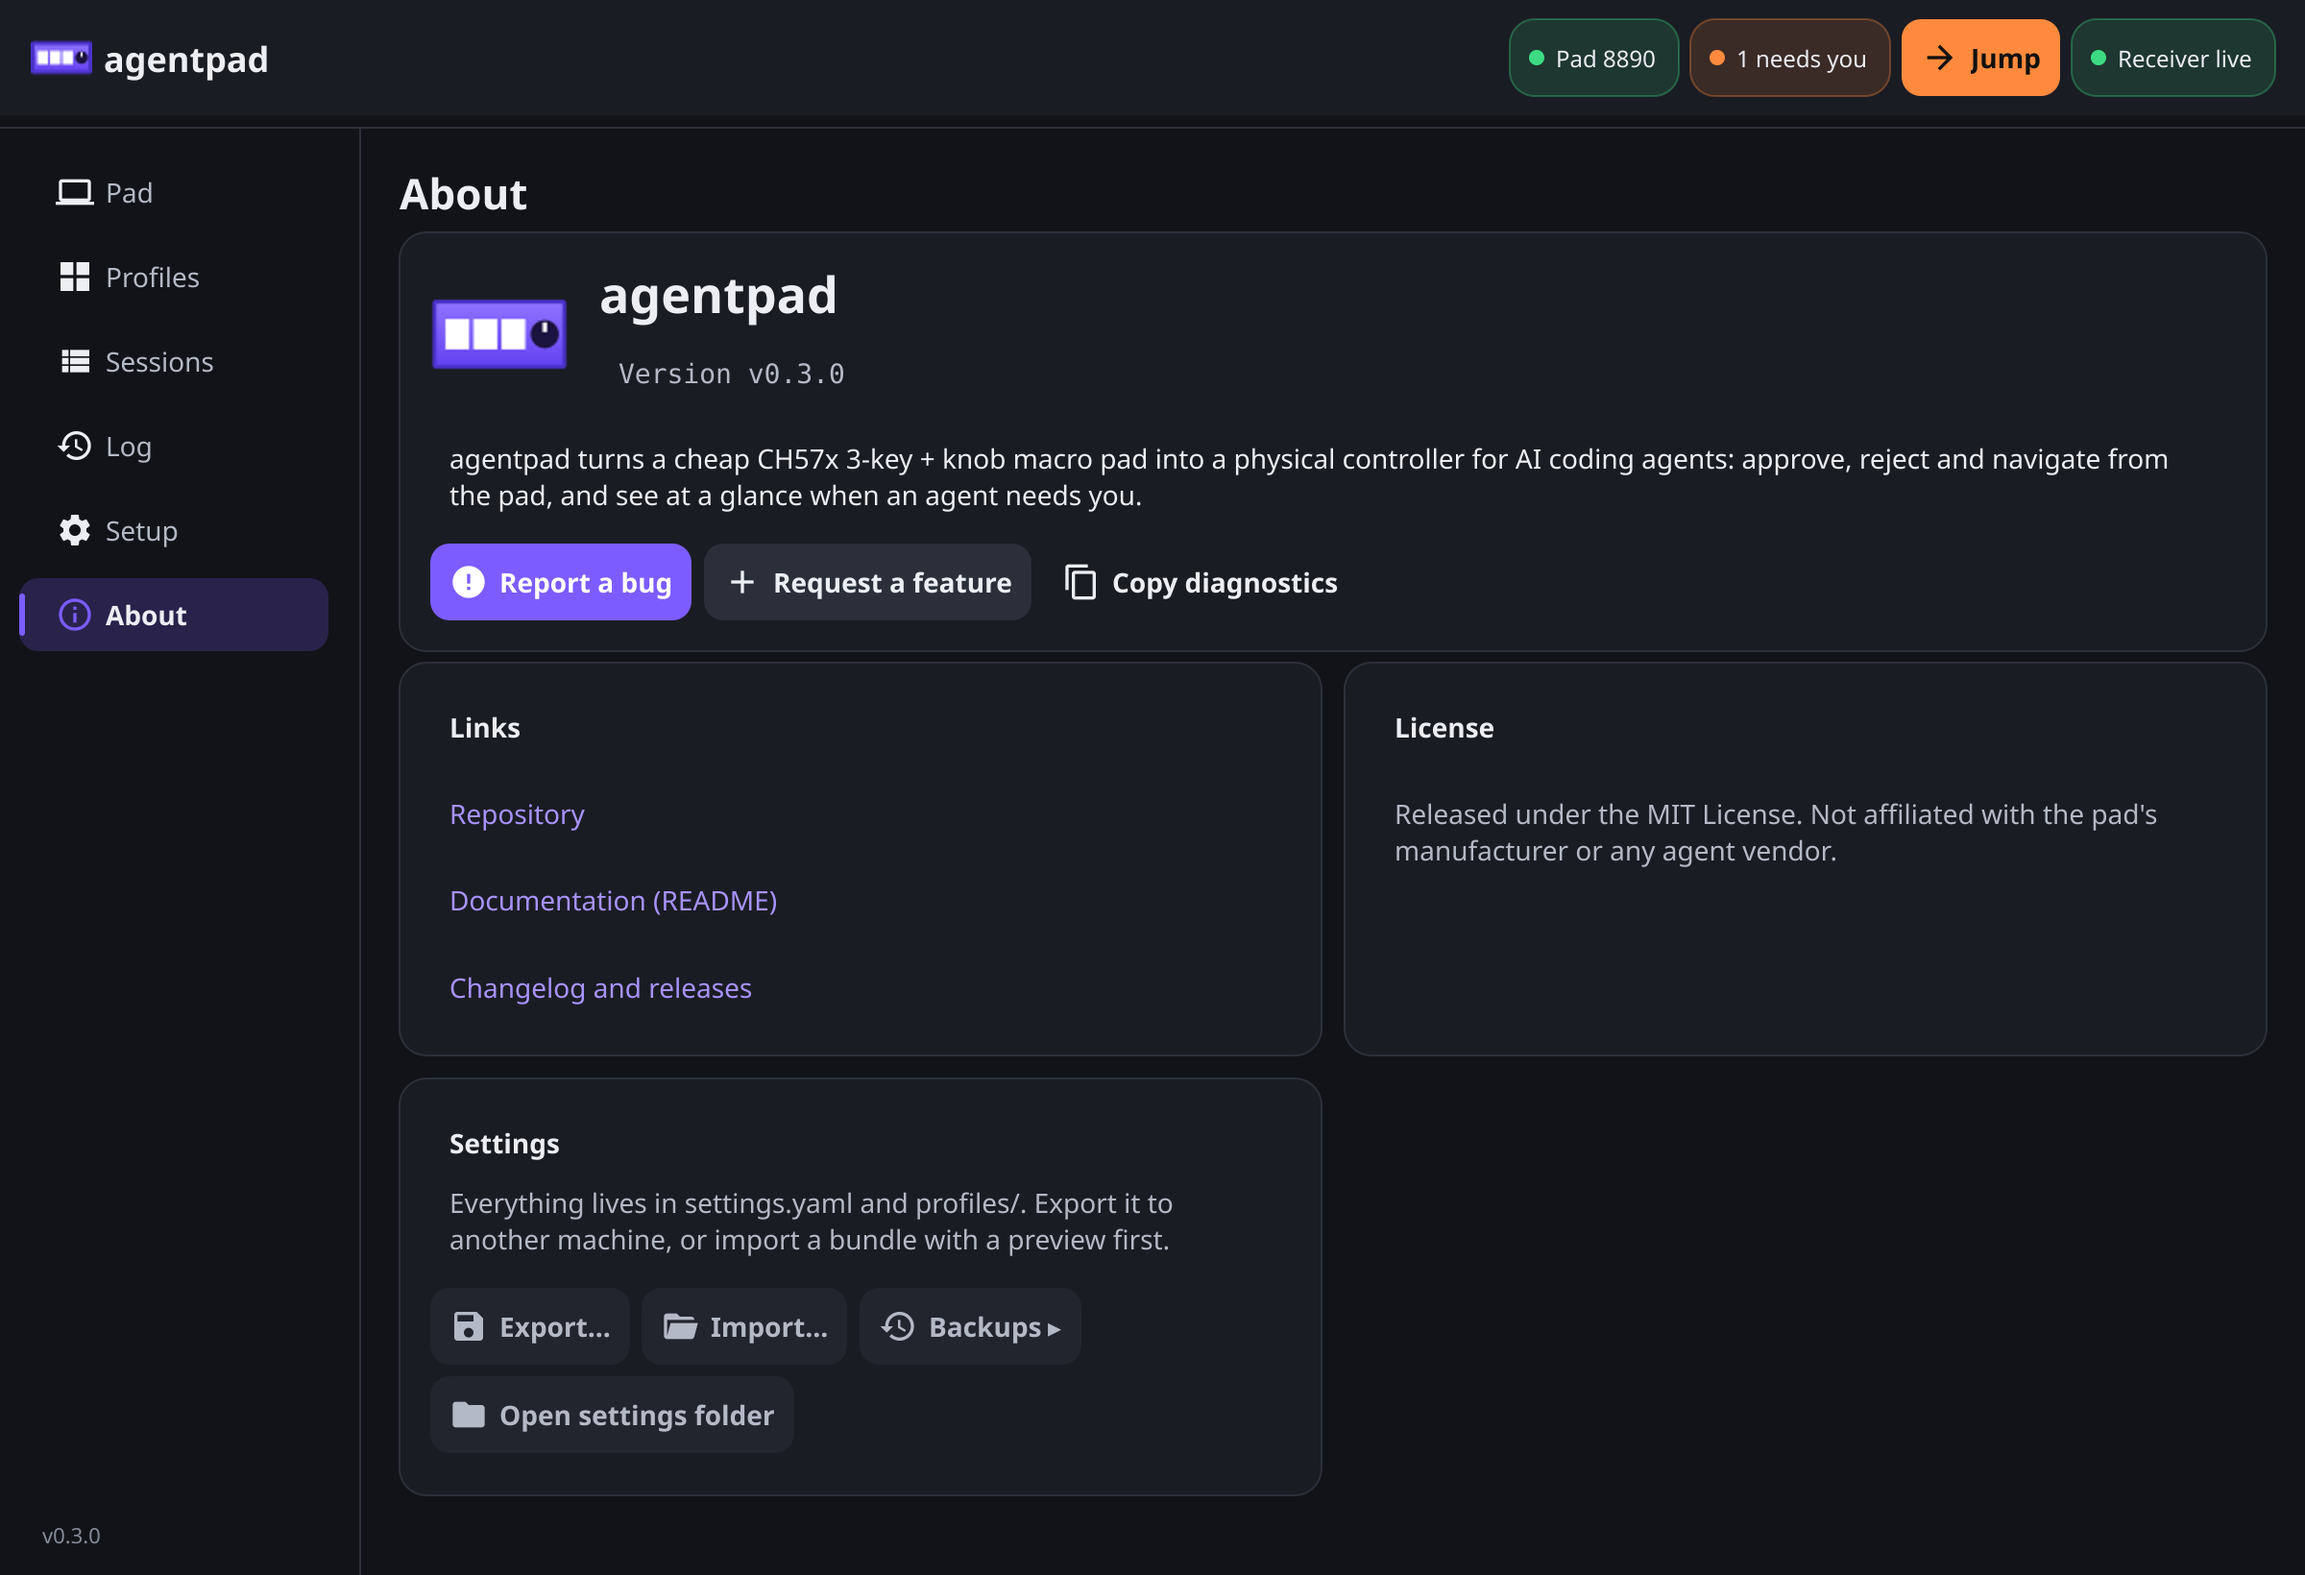
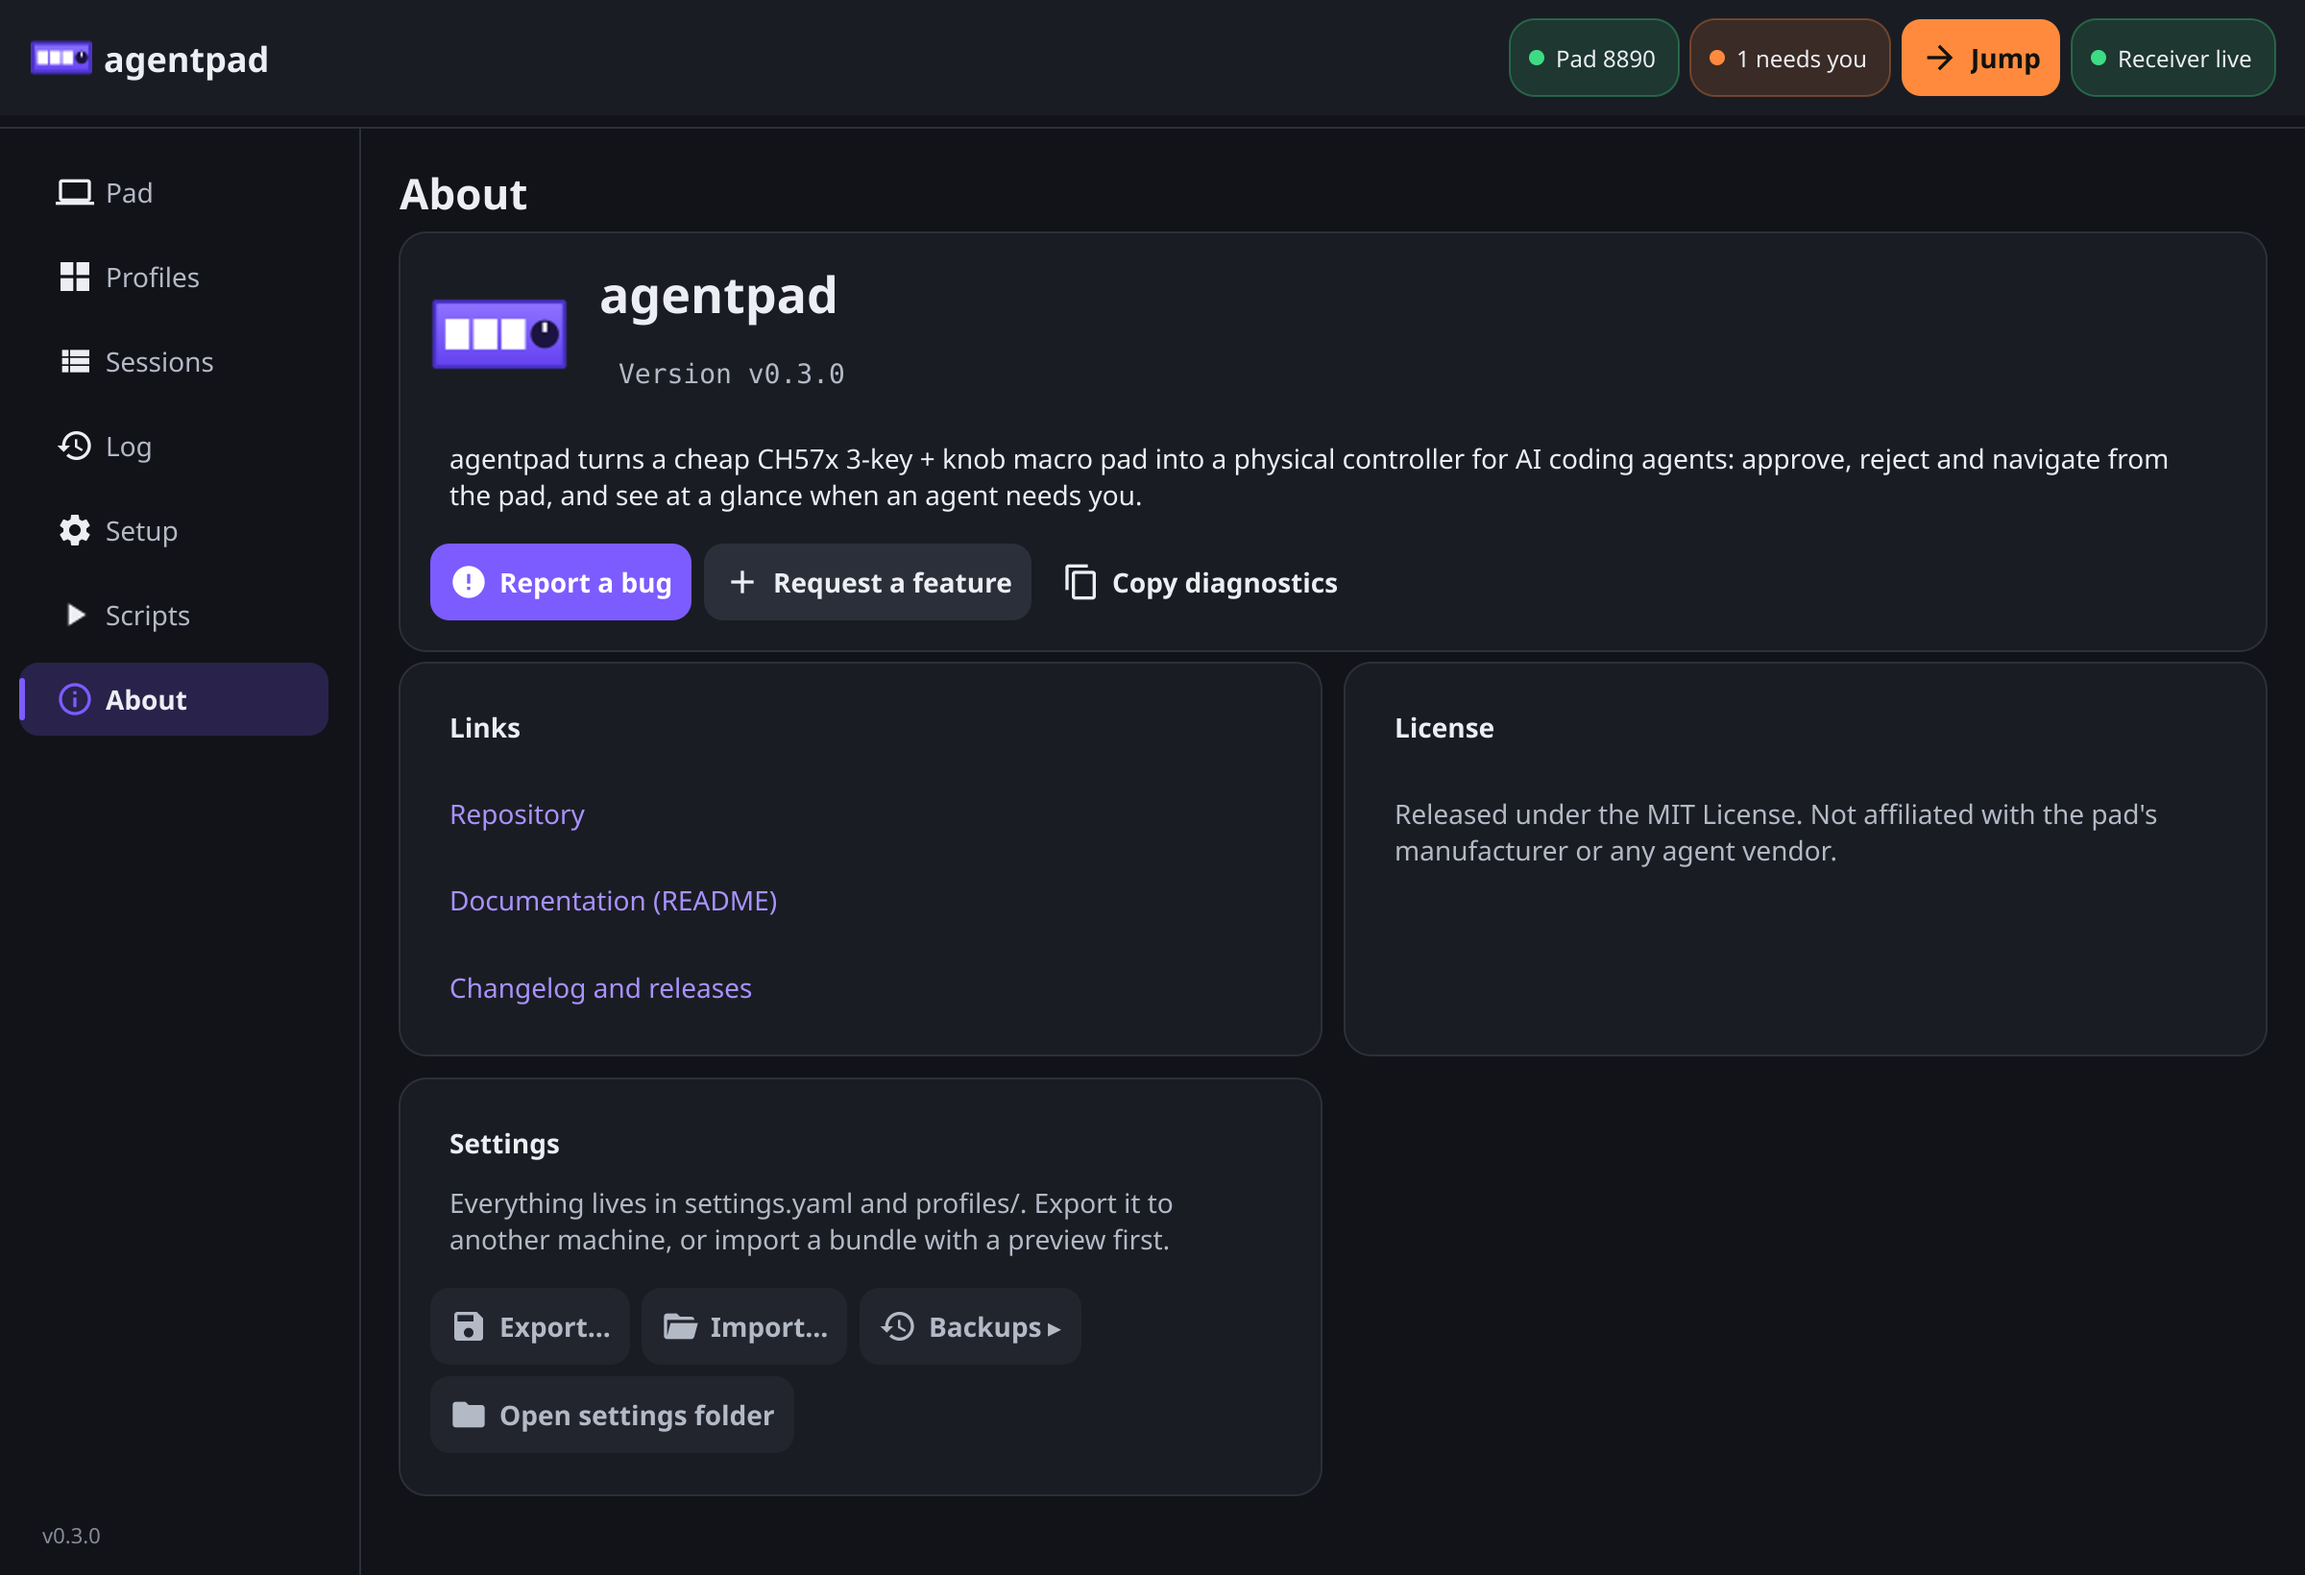
scripts screenshot and refreshed screens with the new nav entry

Changed region(s): [[0.0, 0.3421, 0.1562, 0.4665]]

diff --git a/internal/ui/screenshots_test.go b/internal/ui/screenshots_test.go
@@ -13,6 +13,7 @@ package ui
 
 import (
 	"context"
+	"encoding/json"
 	"errors"
 	"image/png"
 	"os"
@@ -30,6 +31,8 @@ import (
 	"github.com/thereisnotime/agentpad/internal/jump"
 	"github.com/thereisnotime/agentpad/internal/pad"
 	"github.com/thereisnotime/agentpad/internal/profile"
+	"github.com/thereisnotime/agentpad/internal/scripts"
+	"github.com/thereisnotime/agentpad/internal/settings"
 )
 
 type noJumper struct{}
@@ -58,27 +61,7 @@ func TestScreenshots(t *testing.T) {
 	}
 
 	shot := func(name string, screen int, w, h float32, prep func()) {
-		u.navigate(screen)
-		if prep != nil {
-			prep()
-		}
-		c := u.win.Canvas().(software.WindowlessCanvas)
-		c.SetScale(2)
-		u.win.Resize(fyne.NewSize(w, h))
-		// let size-dependent layouts settle
-		for range 3 {
-			u.win.Content().Refresh()
-			u.win.Resize(fyne.NewSize(w, h))
-			c.Capture()
-		}
-		f, err := os.Create(filepath.Join(dir, name+".png"))
-		if err != nil {
-			t.Fatal(err)
-		}
-		enc := png.Encoder{CompressionLevel: png.BestCompression}
-		if err := errors.Join(enc.Encode(f, c.Capture()), f.Close()); err != nil {
-			t.Fatal(err)
-		}
+		capture(t, u, dir, name, screen, w, h, prep)
 	}
 
 	live := func() {
@@ -136,6 +119,101 @@ func TestScreenshots(t *testing.T) {
 	}
 	for v, n := range map[iconVariant]string{iconVariantIdle: "idle", iconVariantBusy: "busy", iconVariantAttention: "attention", iconVariantApp: "app"} {
 		_ = os.WriteFile(filepath.Join(tmpOr(dir), "icon-"+n+".svg"), padIconSVG(v), 0o644)
+	}
+}
+
+// TestScriptsScreenshot renders the Scripts screen with a few scripts,
+// hooks and past runs (read from a sample scripts.jsonl; nothing runs).
+func TestScriptsScreenshot(t *testing.T) {
+	dir := os.Getenv("SHOT_DIR")
+	if dir == "" {
+		t.Skip("SHOT_DIR not set")
+	}
+	tmp := t.TempDir()
+	st, err := settings.Open(filepath.Join(tmp, "config"))
+	if err != nil {
+		t.Fatal(err)
+	}
+	if err := st.Update(func(s *settings.Settings) {
+		s.Scripts = map[string]scripts.Script{
+			"mic-toggle": {Run: []string{"pactl", "set-source-mute", "@DEFAULT_SOURCE@", "toggle"}},
+			"ping-phone": {Shell: `curl -s -d "$AGENTPAD_TOOL" https://ntfy.sh/$TOPIC`, Env: map[string]string{"TOPIC": "x"}, Timeout: 10 * time.Second},
+			"pull-here":  {Shell: `cd "$AGENTPAD_CWD" && git pull --ff-only`, Timeout: time.Minute},
+		}
+		s.Hooks = []scripts.Hook{
+			{On: scripts.EventAttention, Agent: "claude", Script: "ping-phone"},
+			{On: scripts.EventIdle, Agent: "codex", Script: "pull-here"},
+		}
+	}); err != nil {
+		t.Fatal(err)
+	}
+	now := time.Now()
+	var log []byte
+	for _, r := range []scripts.Run{
+		{Script: "pull-here", Trigger: "hook idle", Start: now.Add(-14 * time.Minute), Duration: 1800 * time.Millisecond, Status: scripts.StatusOK, Stdout: "Already up to date.\n"},
+		{Script: "ping-phone", Trigger: "hook attention", Start: now.Add(-9 * time.Minute), Duration: 420 * time.Millisecond, Status: scripts.StatusOK},
+		{Script: "pull-here", Trigger: "key 3 · hold", Start: now.Add(-6 * time.Minute), Duration: 30 * time.Millisecond, Status: scripts.StatusFailed, ExitCode: 2, Stderr: "sh: line 1: cd: : No such file or directory\n"},
+		{Script: "ping-phone", Trigger: "Run now", Start: now.Add(-3 * time.Minute), Duration: 10 * time.Second, Status: scripts.StatusTimeout, Err: "killed after 10s"},
+		{Script: "mic-toggle", Trigger: "knob press", Start: now.Add(-40 * time.Second), Duration: 12 * time.Millisecond, Status: scripts.StatusOK},
+	} {
+		b, _ := json.Marshal(r)
+		log = append(append(log, b...), '\n')
+	}
+	logPath := filepath.Join(tmp, "state", "scripts.jsonl")
+	if err := os.MkdirAll(filepath.Dir(logPath), 0o755); err != nil {
+		t.Fatal(err)
+	}
+	if err := os.WriteFile(logPath, log, 0o600); err != nil {
+		t.Fatal(err)
+	}
+	a := test.NewTempApp(t)
+	u := newAppUI(a, Deps{
+		Writer:     &pad.ToolWriter{Path: filepath.Join(tmp, "no-such-tool")},
+		Settings:   NewFileSettings(st, nil),
+		Version:    "v0.3.0",
+		LogPath:    filepath.Join(tmp, "state", "events.jsonl"),
+		ScriptsLog: logPath,
+		Addr:       "127.0.0.1:47321",
+		Input:      silentInput{make(chan PadInputEvent)},
+		Live:       LiveDevices{Disabled: true},
+		Jumper:     noJumper{},
+		Notifier: func(func(string)) (NotifyBackend, error) {
+			return nil, errors.New("no notifications in screenshots")
+		},
+	})
+	u.ledFollow.Store(false)
+	t.Cleanup(u.shutdown)
+	u.win.SetPadded(false)
+	u.showDevice(pad.Device{VendorID: 0x1189, ProductID: 0x8890, BusPath: "1-4", Product: "CH57x pad"}, nil)
+	u.pillRecv.set(colorSuccess, "Receiver live")
+	u.scripts.refresh()
+	u.scripts.open[u.runner.Runs()[2].ID] = true // the failed run, expanded
+	u.scripts.refresh()
+	capture(t, u, dir, "scripts-wide", screenScripts, 1200, 1100, nil)
+}
+
+// capture renders screen of u at w x h (2x) into dir/name.png.
+func capture(t *testing.T, u *appUI, dir, name string, screen int, w, h float32, prep func()) {
+	t.Helper()
+	u.navigate(screen)
+	if prep != nil {
+		prep()
+	}
+	c := u.win.Canvas().(software.WindowlessCanvas)
+	c.SetScale(2)
+	u.win.Resize(fyne.NewSize(w, h))
+	for range 3 { // let size-dependent layouts settle
+		u.win.Content().Refresh()
+		u.win.Resize(fyne.NewSize(w, h))
+		c.Capture()
+	}
+	f, err := os.Create(filepath.Join(dir, name+".png"))
+	if err != nil {
+		t.Fatal(err)
+	}
+	enc := png.Encoder{CompressionLevel: png.BestCompression}
+	if err := errors.Join(enc.Encode(f, c.Capture()), f.Close()); err != nil {
+		t.Fatal(err)
 	}
 }
 

diff --git a/internal/ui/tab_scripts.go b/internal/ui/tab_scripts.go
@@ -43,7 +43,7 @@ func newScriptsTab(u *appUI) *scriptsTab {
 	t.newBtn = widget.NewButtonWithIcon("New script", theme.ContentAddIcon(), func() { t.edit("", scripts.Script{}) })
 	t.newBtn.Importance = widget.HighImportance
 	scriptsCard := surface(container.NewBorder(
-		container.NewBorder(nil, nil, nil, t.newBtn, tight(boldLabel("Scripts"), secondary("Edit, run now, or put run:NAME on a pad control."))),
+		container.NewBorder(nil, nil, nil, container.NewVBox(t.newBtn), tight(boldLabel("Scripts"), secondary("Edit, run now, or put run:NAME on a pad control."))),
 		nil, nil, nil, inset(8, 0, 0, 0, t.list)))
 
 	labels := make([]string, 0, len(scripts.Events()))
@@ -153,7 +153,7 @@ func (t *scriptsTab) scriptCard(name string, s scripts.Script) fyne.CanvasObject
 	if state == dotRunning {
 		status = "running"
 	}
-	title := container.NewHBox(statusDot(state), boldLabel(name), vcenter(text(status, 12, colText3, false)))
+	title := container.NewHBox(statusDot(state), vcenter(text(name, 14, colText, true)), vcenter(text(status, 12, colText3, false)))
 	cmd := monoText(s.Preview(), 13, colText2)
 	var details []string
 	if s.Shell != "" {
@@ -172,7 +172,7 @@ func (t *scriptsTab) scriptCard(name string, s scripts.Script) fyne.CanvasObject
 	if t.u.files == nil {
 		edit.Disable()
 	}
-	info := tight(title, inset(0, 0, 18, 0, cmd), inset(0, 0, 18, 0, secondary(strings.Join(details, " · "))))
+	info := container.NewVBox(title, inset(0, 0, 18, 0, cmd), inset(0, 0, 18, 0, text(strings.Join(details, " · "), 12, colText3, false)))
 	bg := roundRect(colSurface2, 10)
 	return container.NewStack(bg, inset(6, 6, 10, 10, container.NewBorder(nil, nil, nil, vcenter(container.NewHBox(edit, run)), info)))
 }
